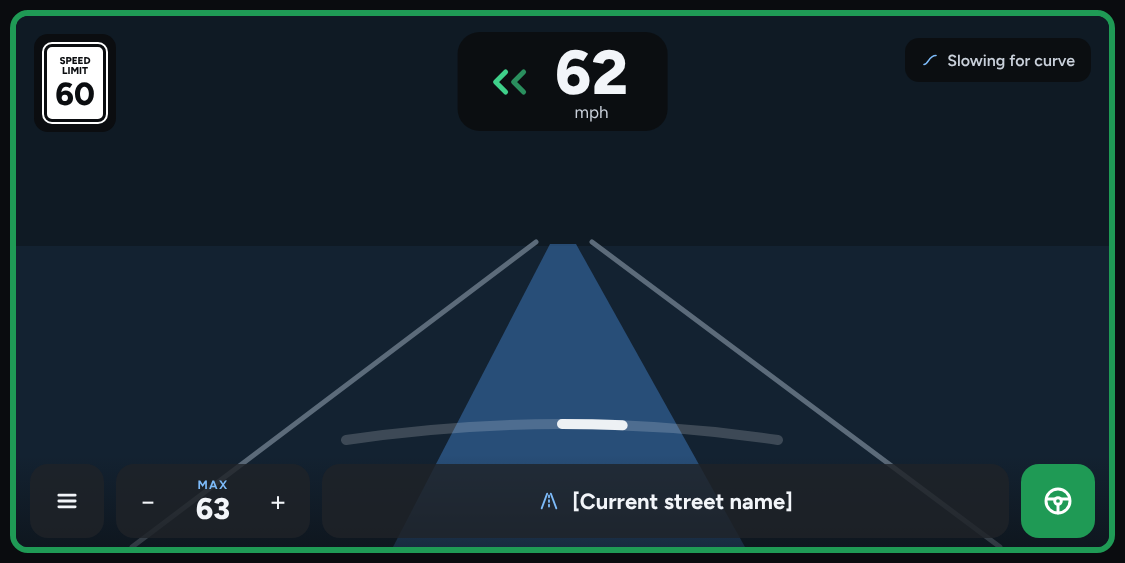
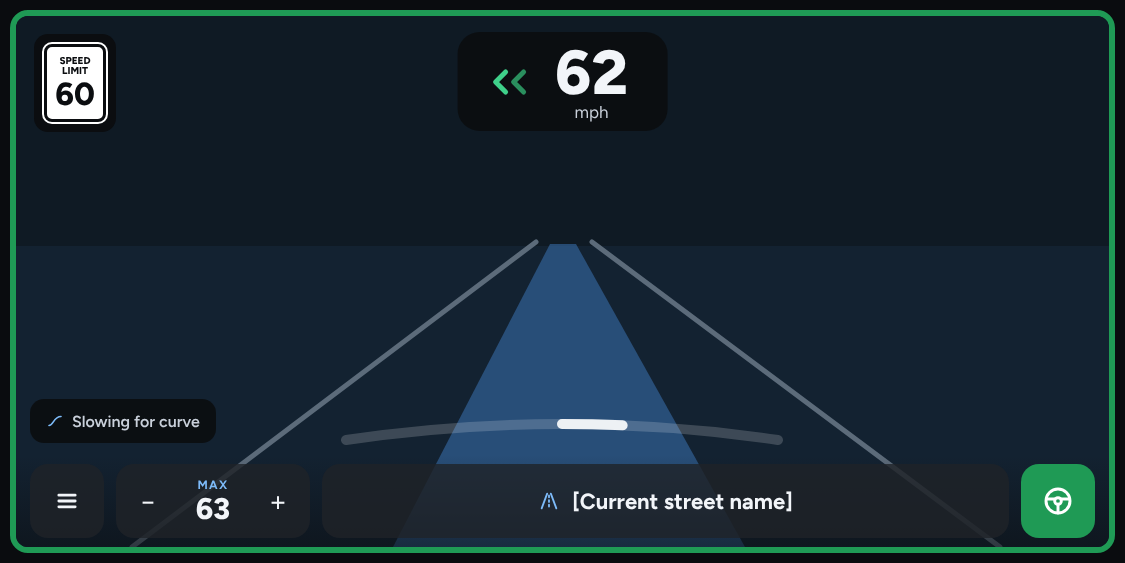
Essentials: status chip bottom left, above the bar
The chip sits just above the bar, aligned with the menu button, instead of top right; the driver
monitor icon is lifted by a chip's height so the two don't overlap. The onroad mock moves it too.

Claude-Session: https://claude.ai/code/session_01R4pPc2hcx88Dbjjec1p8WC

Changed region(s): [[0.0, 0.6945, 0.2178, 0.7851], [0.84, 0.0906, 0.9644, 0.1208]]

diff --git a/selfdrive/ui/tandem/design/onroad.html b/selfdrive/ui/tandem/design/onroad.html
@@ -39,7 +39,7 @@ a{color:#7DBBF9}a:hover{color:#A9D3FB}
         <span style="font-size: 17px; color: #C9D0DA;">mph</span>
       </div>
     </div>
-    <div style="position: absolute; right: 18px; top: 22px; display: flex; align-items: center; gap: 8px; background: #0B0D10E6; border-radius: 14px; padding: 0 16px; height: 44px; font-size: 16px; font-weight: 600; color: #C9D0DA;">
+    <div style="position: absolute; left: 14px; bottom: 104px; display: flex; align-items: center; gap: 8px; background: #0B0D10E6; border-radius: 14px; padding: 0 16px; height: 44px; font-size: 16px; font-weight: 600; color: #C9D0DA;">
       <svg width="18" height="18" viewBox="0 0 24 24" fill="none" stroke="#7DBBF9" stroke-width="2.2" stroke-linecap="round" stroke-linejoin="round" aria-hidden="true"><path d="M4 18c6 0 6-12 16-12"></path></svg>
       Slowing for curve
     </div>

diff --git a/selfdrive/ui/tandem/onroad/view.py b/selfdrive/ui/tandem/onroad/view.py
@@ -3,7 +3,7 @@
 It subclasses StarPilotOnroadView and overrides only the parts Essentials replaces:
 - the torque bar becomes the headroom arc, above the bar;
 - the road name moves into the bar;
-- the paused and weather badges beside the driver monitor become status chips;
+- the paused and weather badges beside the driver monitor become a status chip, bottom left above the bar;
 - the current speed, the speed limit sign and the turn card are drawn in the Essentials style, with StarPilot still
   deciding when each shows; the speed pill carries Essentials' turn signal in place of StarPilot's animations;
 - the driving personality button, the experimental-mode wheel, the favorites menu, the side-camera bubble and the stopped
@@ -27,10 +27,9 @@ from openpilot.selfdrive.ui.ui_state import ui_state
 from openpilot.system.ui.lib.application import MousePos
 from openpilot.selfdrive.ui.onroad.starpilot.navigation_card import NavigationCardRenderer
 from openpilot.selfdrive.ui.tandem import tokens as T
-from openpilot.selfdrive.ui.tandem.onroad.layers import (AT_LIMIT, BAR_ZONE, LIMIT_BORDER_COLOR, LIMIT_LANE_COLOR, SIGN_MARGIN, SIGN_TILE,
-                                                         ArcState, BarState, Headroom, HeadroomArc, HelpSteer,
-                                                         LimitCard, LimitOffer, OnroadBar, StatusChip, draw_speed, draw_speed_limit,
-                                                         draw_turn_card, sign_tile)
+from openpilot.selfdrive.ui.tandem.onroad.layers import (AT_LIMIT, BAR_ZONE, LIMIT_BORDER_COLOR, LIMIT_LANE_COLOR, ArcState, BarState,
+                                                         Headroom, HeadroomArc, HelpSteer, LimitCard, LimitOffer, OnroadBar, StatusChip,
+                                                         draw_speed, draw_speed_limit, draw_turn_card, sign_tile)
 from openpilot.selfdrive.ui.tandem.onroad.status import ChipPicker, snapshot
 from openpilot.selfdrive.ui.tandem.onroad.limits import LimitOfferState
 
@@ -44,7 +43,8 @@ class BarAwareLayout(WidgetLayoutManager):
 
   def _layout_bottom(self, is_rhd: bool):
     full = self.content_rect
-    self.content_rect = rl.Rectangle(full.x, full.y, full.width, full.height - BAR_ZONE + 40)
+    # Above the bar and the status chip's line, so the driver monitor icon clears both.
+    self.content_rect = rl.Rectangle(full.x, full.y, full.width, full.height - BAR_ZONE + 40 - StatusChip.HEIGHT - StatusChip.GAP)
     try:
       super()._layout_bottom(is_rhd)
     finally:
@@ -115,7 +115,7 @@ class EssentialsOnroadView(StarPilotOnroadView):
     self._headroom_chimed = False
     self._limit_offer = LimitOfferState()
     self._bar = OnroadBar(self._bar_state, self._open_menu, self._step_speed, self._toggle_engaged, self._end_route)
-    self._chip_view = StatusChip(lambda: self._chip, lambda: SIGN_MARGIN + SIGN_TILE[1] + T.px(12) if self._sign_right else T.px(22))
+    self._chip_view = StatusChip(lambda: self._chip)
     self._arc = HeadroomArc(lambda: self._arc_state)
     self._help = HelpSteer()
     self._limit = LimitCard(self._offer, self._match_limit, self._ignore_limit,
@@ -128,7 +128,6 @@ class EssentialsOnroadView(StarPilotOnroadView):
     self._favorite_radial_menu = _NoFavorites()
     self._pip_sidecam.set_visible(False)   # the side-camera bubble: a Galaxy developer feature, and it would cover the bar
     self._stopped_timer_widget = _NoStoppedTimer()
-    self._sign_right = False
     self._layers_visible = False
     self._nav_sm = None
 
@@ -146,7 +145,6 @@ class EssentialsOnroadView(StarPilotOnroadView):
 
   def _render_speed_card(self):
     """The posted limit StarPilot's speed card would show, as the mock's sign; hidden while the new-limit card asks."""
-    self._sign_right = False
     widget = self._unified_speed_widget
     if self._full_alert_showing():
       widget.collapse_sources()
@@ -155,8 +153,7 @@ class EssentialsOnroadView(StarPilotOnroadView):
     limit = widget._presentation.posted_speed_text
     if limit in ("", "–") or self._offer() is not None:
       return
-    self._sign_right = self._turn_card.box is not None
-    draw_speed_limit(sign_tile(self._content_rect, self._sign_right), limit, ui_state.ui_params.get_bool("UseVienna"))
+    draw_speed_limit(sign_tile(self._content_rect, self._turn_card.box is not None), limit, ui_state.ui_params.get_bool("UseVienna"))
 
   def _render_road_name(self):
     pass

diff --git a/selfdrive/ui/tandem/onroad/layers.py b/selfdrive/ui/tandem/onroad/layers.py
@@ -121,25 +121,25 @@ class OnroadBar(Component):
 
 
 class StatusChip(Component):
-  """Top-right explanation of what the car is doing on its own."""
+  """What the car is doing on its own, bottom left just above the bar."""
   grow_touch_target = False
   INK = {ChipTone.INFO: T.ACCENT_TEXT, ChipTone.PAUSED: T.WARNING, ChipTone.WAITING: T.SUCCESS_TEXT}
+  HEIGHT, GAP = T.px(44), T.px(12)
 
-  def __init__(self, chip: Callable[[], Chip | None], top: Callable[[], float] = lambda: T.px(22)):
-    """top: how far down the chip sits, below the speed limit sign while that's top right (navigating)."""
+  def __init__(self, chip: Callable[[], Chip | None]):
     super().__init__()
     self._chip = chip
-    self._top = top
 
   def size(self, chip: Chip) -> tuple[float, float]:
-    return draw.text_width(chip.label, T.font_px(17), T.FONT_SEMIBOLD) + T.px(70), T.px(44)
+    return draw.text_width(chip.label, T.font_px(17), T.FONT_SEMIBOLD) + T.px(70), self.HEIGHT
 
   def _render(self, rect: rl.Rectangle):
     chip = self._chip()
     if chip is None:
       return
     w, h = self.size(chip)
-    box = rl.Rectangle(rect.x + rect.width - w - T.px(22), rect.y + self._top(), w, h)
+    bar_top = rect.y + rect.height - BAR_MARGIN - BAR_HEIGHT
+    box = rl.Rectangle(rect.x + BAR_MARGIN, bar_top - self.GAP - h, w, h)
     draw.fill(box, draw.alpha(T.BG, 0.8), T.px(12))
     body = inset(box, x=T.px(16))
     ink = self.INK[chip.tone]

diff --git a/selfdrive/ui/tandem/README.md b/selfdrive/ui/tandem/README.md
@@ -123,7 +123,7 @@ These are reached from a row or button, never as a tab:
   - **Bottom bar:** a scrim, not a panel. It holds menu (the sidebar), MAX − / + (StarPilot's `SLCForceCruiseSpeed`, only while engaged), the street name, and engage.
     - Engage and disengage go through the wheel controls' action counters.
     - While a route is active, the street name gives way to arrival time, what's left and End route. That reads `navInstruction` through the view's own subscriber, since `ui_state` doesn't subscribe to it.
-  - **Status chip** (top right): one at a time, held 2 s, hidden during alerts. The rules are in `onroad/status.py`, pure and tested.
+  - **Status chip** (bottom left, just above the bar, with the driver monitor icon lifted above it): one at a time, held 2 s, hidden during alerts. The rules are in `onroad/status.py`, pure and tested.
   - **Steering headroom arc:** replaces the torque bar and uses its estimate. It has three stages (under 60%, 60–85%, over 85% held for 0.5 s) and a faint preview of what the path needs 2.5 s ahead.
     - At limit, the lane lines turn orange, the border turns amber, and Help steer plays one soft warning chime through soundd. It uses the warning volume and steering-limit mute-speed settings. The warning clears below 80%, or when steering becomes inactive; existing alerts take priority. The small release margin prevents repeated chimes around 85%.
   - **New-limit card:** asks before matching a higher limit. Match sends StarPilot's `SpeedLimitAccepted`. Ignore suppresses consecutive offers for that same limit, including after an offer expires or its source briefly disappears. An intervening higher or lower posted limit, or a new drive, allows it again.
